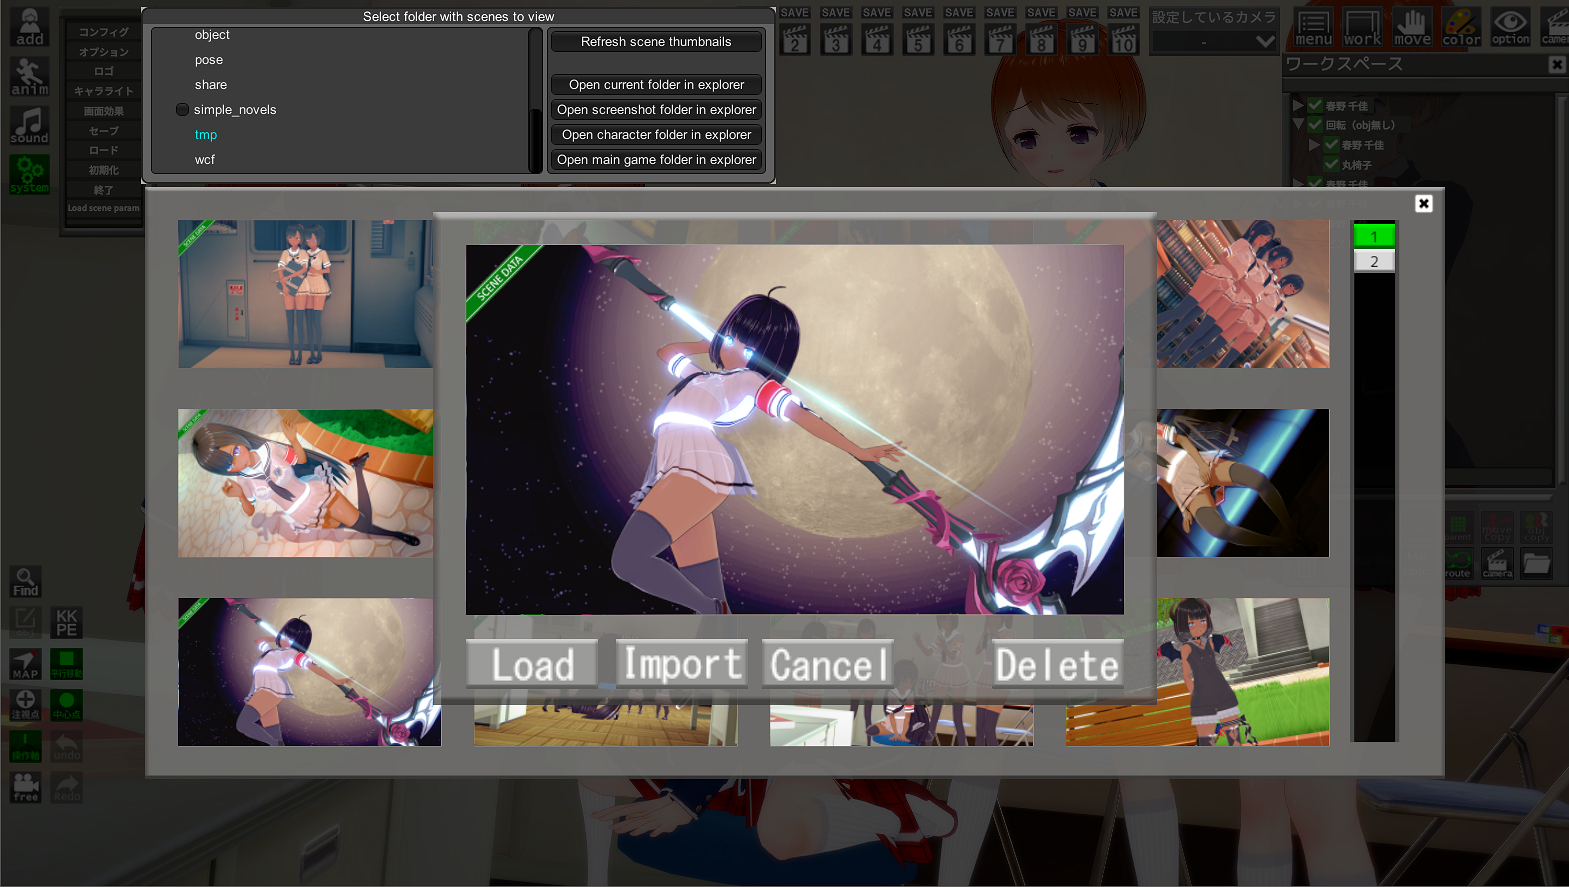
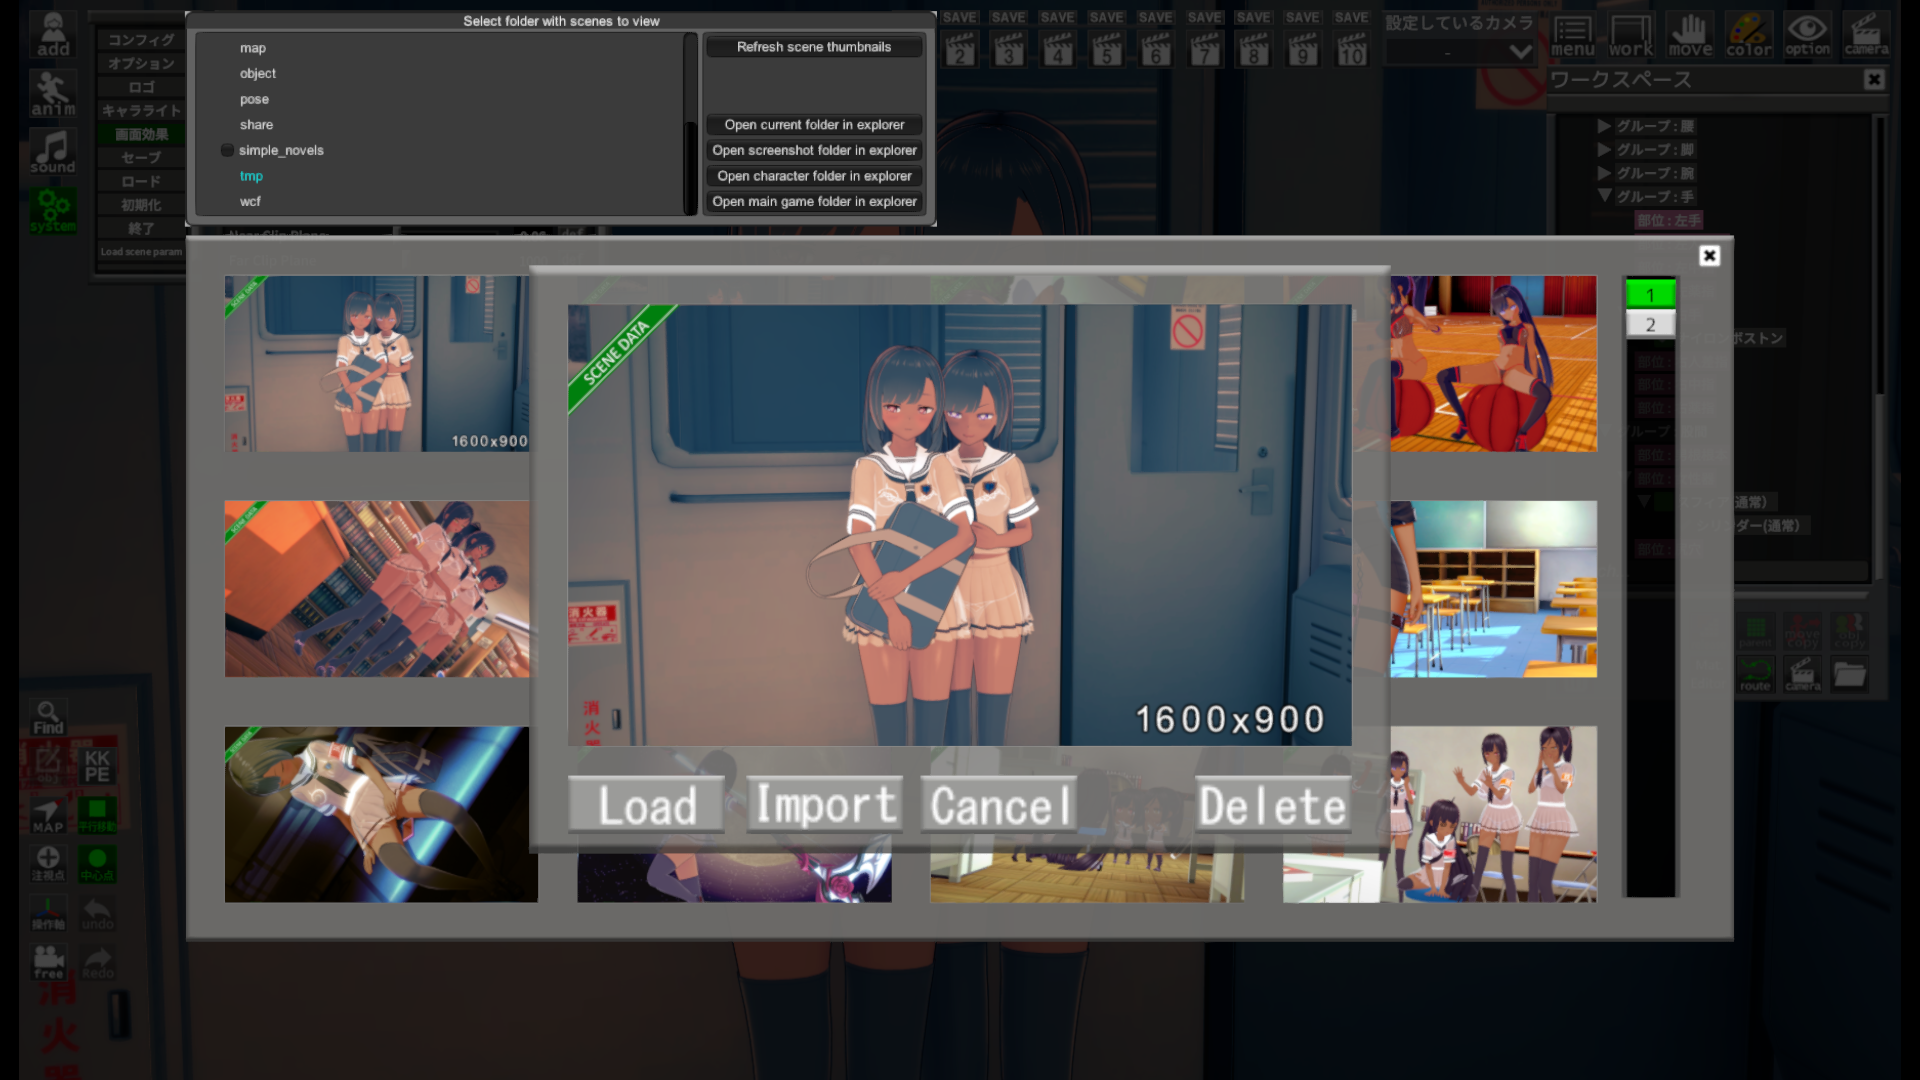
demo

diff --git a/README.md b/README.md
@@ -15,7 +15,7 @@
 
 **將「鎖定頭髮飾品」以外的鈎選項全勾，並使用飾品「取代模式」即會調用遊戲原始程式**
 
-確定支援Plugin:<br>
+支援:<br>
 - Koikatu Overlay Mods v5.1.2
 - Koikatu ABMX V4.2
 - Koikatu More Accessories v1.0.9
@@ -23,6 +23,8 @@
 - Koikatu HairAccessoryCustomizer v1.1.3
 - Koikatu Chara Overlays Based On Coordinate **v1.3.4** (不支援v1.3.3)
 
+衝突:
+- Koikatu Pushup
 # Studio全是妹子插件<br>Studio All Girls Plugin
 ![image](demo/demo2.gif)<br>
 
@@ -182,7 +184,7 @@ Load Scene視窗處，在Import或Load後自動關閉視窗<br>
 - 可調角色存檔(ChaFile)、服裝存檔(CoordinateFile)、Studio存檔(Scene)的圖片分辨率<br>
 - CharaMaker中，角色、服裝檔案選擇器的顯示列數可調整<br>
 - 放大Studio SceneData選擇器的選中預覧<br>
-- (可選)給角色存檔(ChaFile)、Studio存檔(Scene)加上浮水印角標<br>
+- (可選)給角色存檔(ChaFile)、Studio存檔(Scene)加上浮水印角標和圖片分辨率標示<br>
 
 **請至設定中調整這些功能**<br>
 因為改變了存檔圖片尺寸，**強烈建議不要禁用Studio SceneData浮水印**，以利區分存檔PNG和普通截圖PNG<br>
@@ -231,20 +233,36 @@ Load Scene視窗處，在Import或Load後自動關閉視窗<br>
 - 副顯示器固定後，或修改畫面設定(濾鏡等)後，需要再次觸發啟動快捷鍵以進行畫面同步
 - 已知問題: 啟用雙螢幕後F9截圖會造成無回應，請改用F11 (目前沒有計劃深入這部份)
 
+# Studio 儲存工作區順序修正<br>Studio Save Workspace Order Fix
+![image](demo/demo16.png)<br>
+- 以Studio的存檔邏輯，工作區中，在第一層之物件排序是以加入順序儲存<br>
+→ 修改為以實際順序儲存
+
+<details><summary>邏輯</summary>
+因為存這些TreeNode的時候是塞在一個Dictionary裡面，Save&Load的時候依序讀
+而Dictionary之排序順序就是Add進去的順序，也就是所有物件建立的順序
+這插件做的事就是在Save前按照實際TreeNode順序重新建立這個Dictionary
+</details>
+
 # Studio 角色覆寫腳本<br>Studio Body Overwrite Script
-![image](demo/demo15.jpg)<br>
+<a href="https://www.youtube.com/watch?v=UGPeI6vZ3_w" target="_blank"><img src="demo/demo15.jpg" title="Click the image to watch demo"></a><br>
+↑ 請點選圖片觀看範例影片 ↑ Click the image to watch demo! ↑  (備用載點: [影片](demo/demo15.mp4))<br>
 這個不是Plugin而是Script，**請用[ScriptLoader](https://github.com/denikson/BepInEx.ScriptLoader)載入執行**<br>
-請手動編輯.cs檔，將內容修改為你要覆寫的數值<br>
-數值等於Maker中的數字除以100 (即遊戲內數值89 = 0.89f)；Color為Color(r, g, b, a)<br>
-不需覆寫的項目請在開頭加上「//」做行註解<br>
-**Studio中以O鍵觸發**
-<details><summary>安裝方式</summary>
+
+請手動編輯.cs檔，將內容修改為你要覆寫的數值
+- 數值等於Maker中的數字除以100 (即遊戲內數值89 = 0.89f)
+- Color為Color(r, g, b, a)，請參閱[UnityDoc](https://docs.unity3d.com/ScriptReference/Color-ctor.html)
+- 不需覆寫的項目請在開頭加上「//」做行註解
+
+**Studio中以O鍵觸發**<br>
+**衝突: Koikatu PushUp** 因其內部自己存了一份胸部數據，並會在儲存和切換時回寫
+<details><summary>Script安裝方式</summary>
 1. 安裝[ScriptLoader](https://github.com/denikson/BepInEx.ScriptLoader)<br>
 2. 將*.cs置於「Koikatu/scripts」下
 </details>
 
 # 需求依賴
-- コイカツ！ ダークネス (Koikatu! Darkness)<br>不相容於Steam Koikatsu Party
+- コイカツ！ ダークネス (Koikatu! Darkness)<br>不保證相容於Steam Koikatsu Party
 - **BepInEx v5.0.1**<br>
 - BepisPlugins r13.1.1<br>
 
